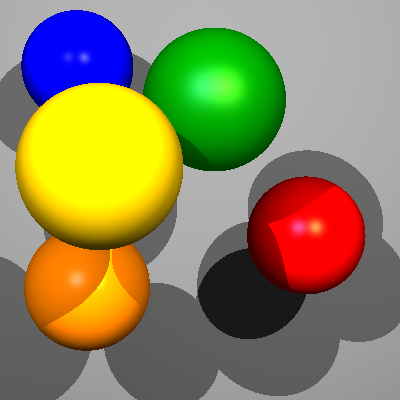
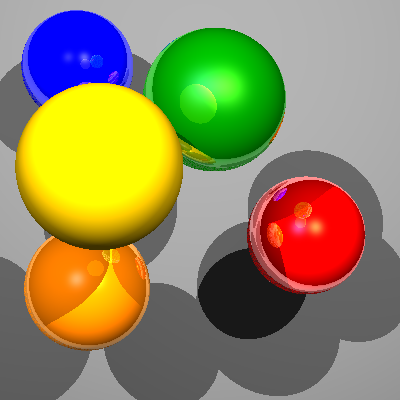
Ajout de la reflexion

diff --git a/scene.cpp b/scene.cpp
@@ -16,8 +16,9 @@
 
 #include "scene.h"
 #include "material.h"
+#include <algorithm>
 
-Color Scene::trace(const Ray &ray)
+Color Scene::trace(const Ray &ray, const int &depth)
 {
     // Find hit object and distance
     Hit min_hit(std::numeric_limits<double>::infinity(),Vector());
@@ -61,7 +62,7 @@ Color Scene::trace(const Ray &ray)
 
     if(renderMode == 0) /** If we do illumination */
     {
-        return illumination(material, hit, N, V, ray);
+        return illumination(material, hit, N, V, ray, depth);
     }
     else if(renderMode == 1) /** z-buffer image */
     {
@@ -78,9 +79,10 @@ Color Scene::trace(const Ray &ray)
 }
 
 /** Phong */
-Color Scene::illumination(Material *material, Point hit, Vector N, Vector V, Ray ray)
+Color Scene::illumination(Material *material, Point hit, Vector N, Vector V, Ray ray, const int &depth)
 {
     Color I = Color(0, 0, 0);
+	Color reflectionColor = Color(0, 0, 0);
 
     for(unsigned int i=0; i<lights.size(); ++i)
     {
@@ -119,8 +121,12 @@ Color Scene::illumination(Material *material, Point hit, Vector N, Vector V, Ray
             }
         }
 
+		if (depth < maxRecursionDepth) {
+			reflectionColor = trace(Ray(hit, reflectionVector), depth + 1);
+		}
+
         // Point shadowPoint = ray.at(collisionHit.t);
-        if(!obj || (hit - lights[i]->position).length() <= (hit - ray.at(lightHit.t)).length())
+        if(!shadow || !obj || (hit - lights[i]->position).length() <= (hit - ray.at(lightHit.t)).length())
         {
          //cout << "Test shadow!" << endl;
          /**
@@ -148,8 +154,9 @@ Color Scene::illumination(Material *material, Point hit, Vector N, Vector V, Ray
         {
             I += lightColor * materialColor * material->ka;
         }
+		
     }
-
+	I = I + reflectionColor*material->ks;
     return I;
 }
 
@@ -187,7 +194,7 @@ void Scene::render(Image &img)
         for (int x = 0; x < w; x++) {
             Point pixel(x+0.5, h-1-y+0.5, 0);
             Ray ray(eye, (pixel-eye).normalized());
-            Color col = trace(ray);
+            Color col = trace(ray,0);
             col.clamp();
             img(x,y) = col;
         }
@@ -211,6 +218,10 @@ void Scene::setEye(Triple e)
 
 void Scene::setShadow(bool shadow_){
     shadow = shadow_;
+}
+
+void Scene::setMaxRecursionDepth(int maxRecursDepth) {
+	maxRecursionDepth = maxRecursDepth;
 }
 
 int Scene::getRenderMode()

diff --git a/scene.h b/scene.h
@@ -33,13 +33,15 @@ private:
     float farDistance = 3000;
     float frontDistance = 500;
     bool shadow = false;
+	int maxRecursionDepth = 0;
 public:
-    Color trace(const Ray &ray);
+    Color trace(const Ray &ray, const int &depth);
     void render(Image &img);
     void addObject(Object *o);
     void addLight(Light *l);
     void setEye(Triple e);
     void setShadow(bool shadow_);
+	void setMaxRecursionDepth(int maxRecursDepth);
 
     void setRenderMode(int renderModeTemp);
     int getRenderMode();
@@ -47,7 +49,7 @@ public:
     void setfarDistance(int farDistanceTemp);
     int getFarDistance();
 
-    Color illumination(Material *material, Point hit, Vector N, Vector V, Ray ray);
+    Color illumination(Material *material, Point hit, Vector N, Vector V, Ray ray, const int &depth);
     Color zBufferImage(Hit min_hit);
     Color normaleBufferImage(Vector N);
     unsigned int getNumObjects() { return objects.size(); }

diff --git a/raytracer.cpp b/raytracer.cpp
@@ -129,6 +129,7 @@ bool Raytracer::readScene(const std::string& inputFilename)
             // Read scene configuration options
             scene->setEye(parseTriple(doc["Eye"]));
             scene->setShadow(doc["shadow"]);
+			scene->setMaxRecursionDepth(doc["MaxRecursionDepth"]);
 
             /** Read scene mode (0 for illumination, 1 for Zbuffer image, 2 for normal bufferImage */
             if(doc.FindValue("renderMode"))
